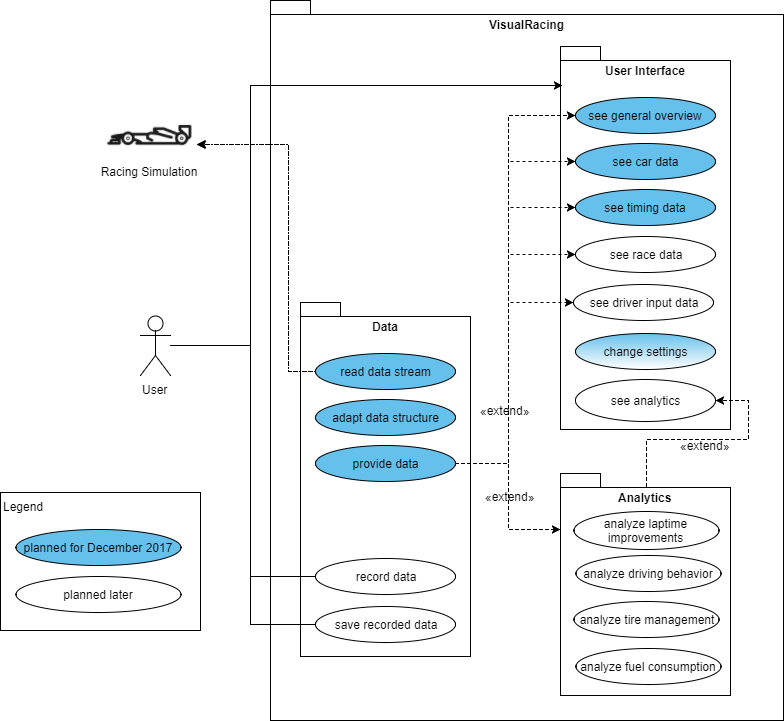
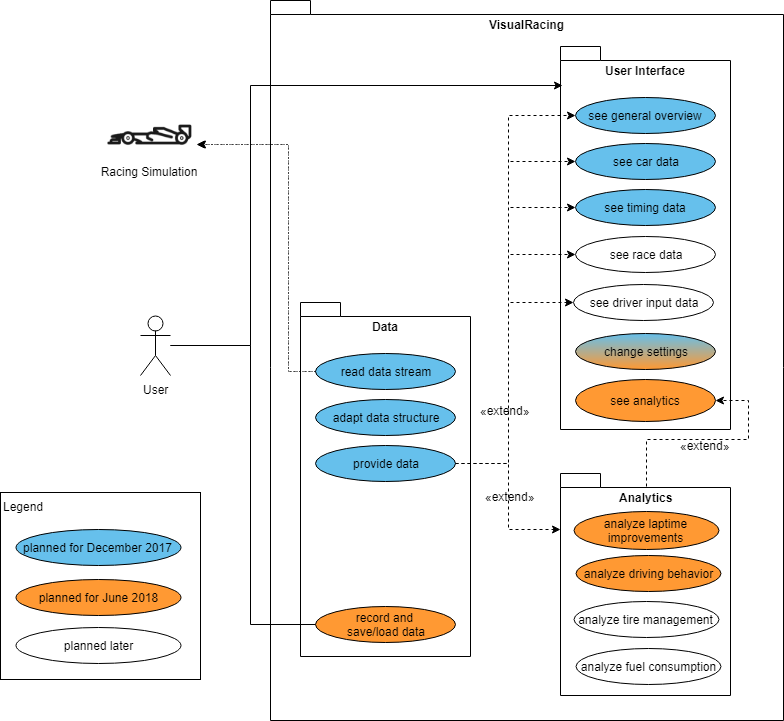
Added Time report
Time report
Updated UC Diagram

#VR-107 done
#VR-109 done

diff --git a/organization/Time report.MD b/organization/Time report.MD
@@ -1,0 +1,10 @@
+# VisualRacing - Time Report
+
+|Use Case|Documentation|Coding|Testing|Warm-Up time|Total|Function Points
+|-|-|-|-|-|-|-|
+|General Tab|51min|8h57min|-|7h29min|17h17min|-|
+|Car Data Tab|1h32min|2h27min|-|-|3h59min|-|
+|Timing Tab|1h9min|7h|-|-|8h9min|-|
+|Settings Tab|23min|1h30min|-|-|1h53min|-|
+|Data Mapping|31min|8h38min|-|3h35min|12h44min|-|
+
